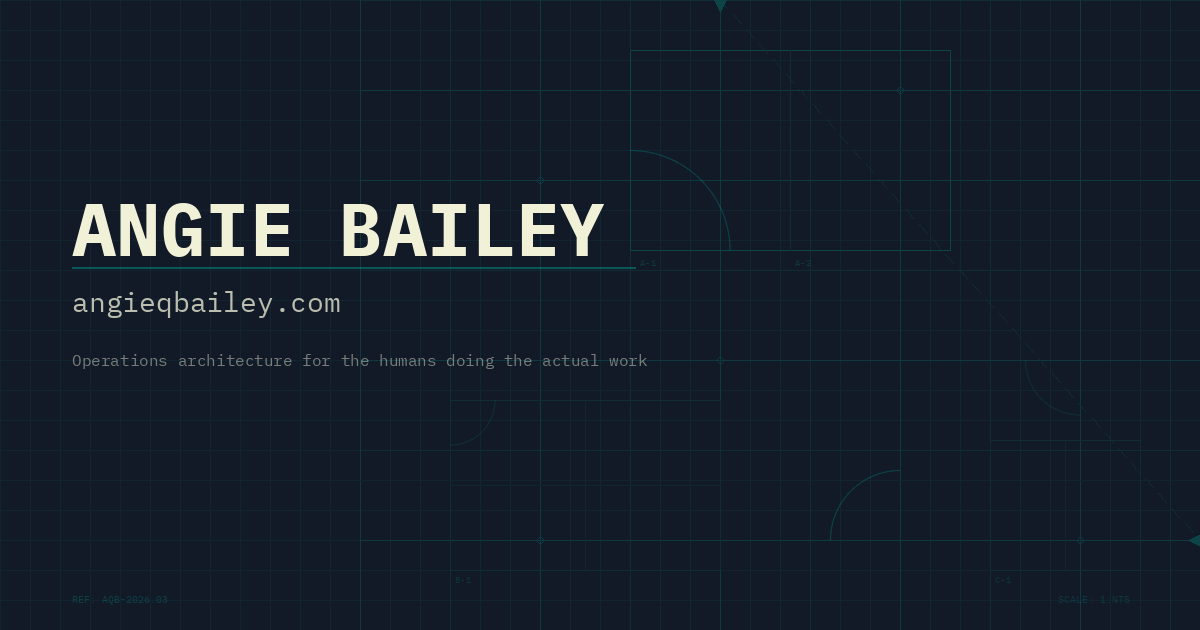
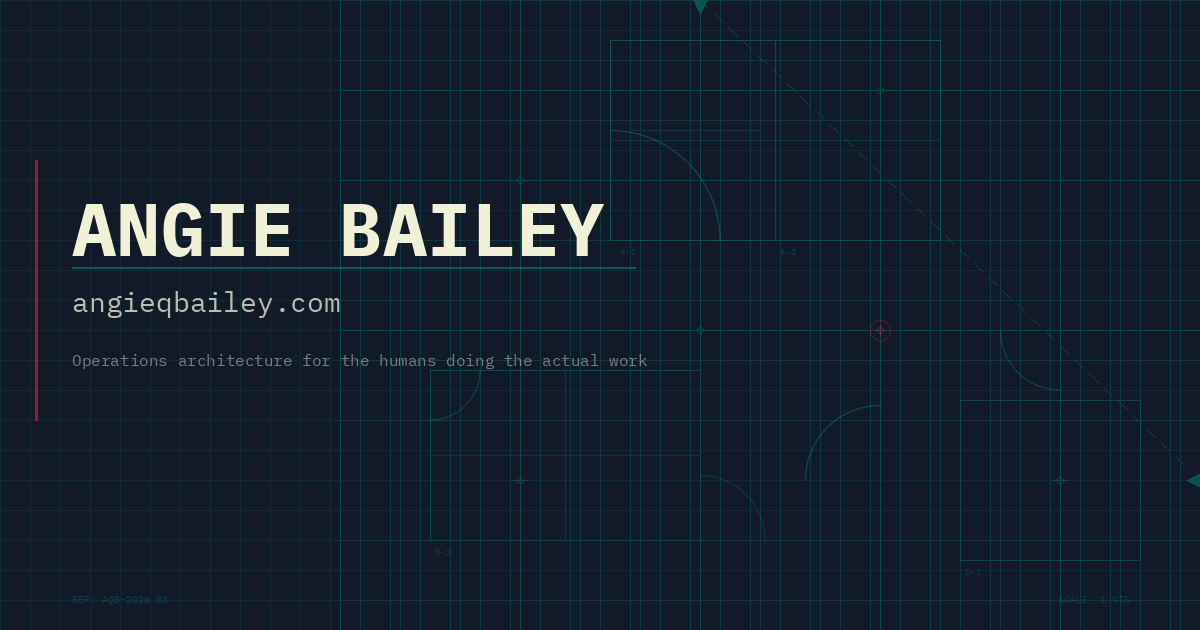
Rebuild OG image with pronounced grid + rosso accent; add image dimensions
Grid density increased to match blueprint reference. Added rosso registration
mark and crosshair target. Added og:image:width, og:image:height, og:image:type
meta tags for LinkedIn post inspector detection.

diff --git a/index.html b/index.html
@@ -16,6 +16,9 @@
     <meta property="og:type" content="website">
     <meta property="og:url" content="https://angieqbailey.com">
     <meta property="og:image" content="https://angieqbailey.com/og-image.png">
+    <meta property="og:image:width" content="1200">
+    <meta property="og:image:height" content="630">
+    <meta property="og:image:type" content="image/png">
     <meta property="og:locale" content="en_US">
 
     <!-- Twitter / X Card -->
